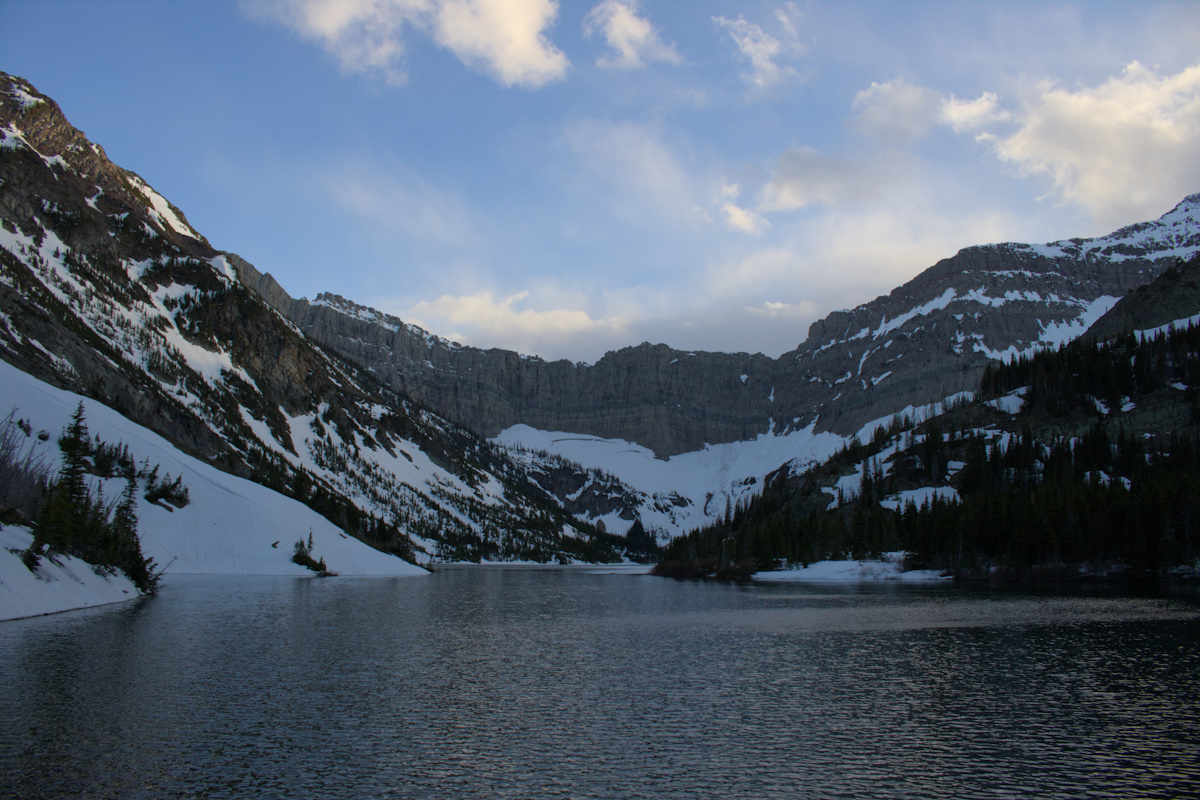
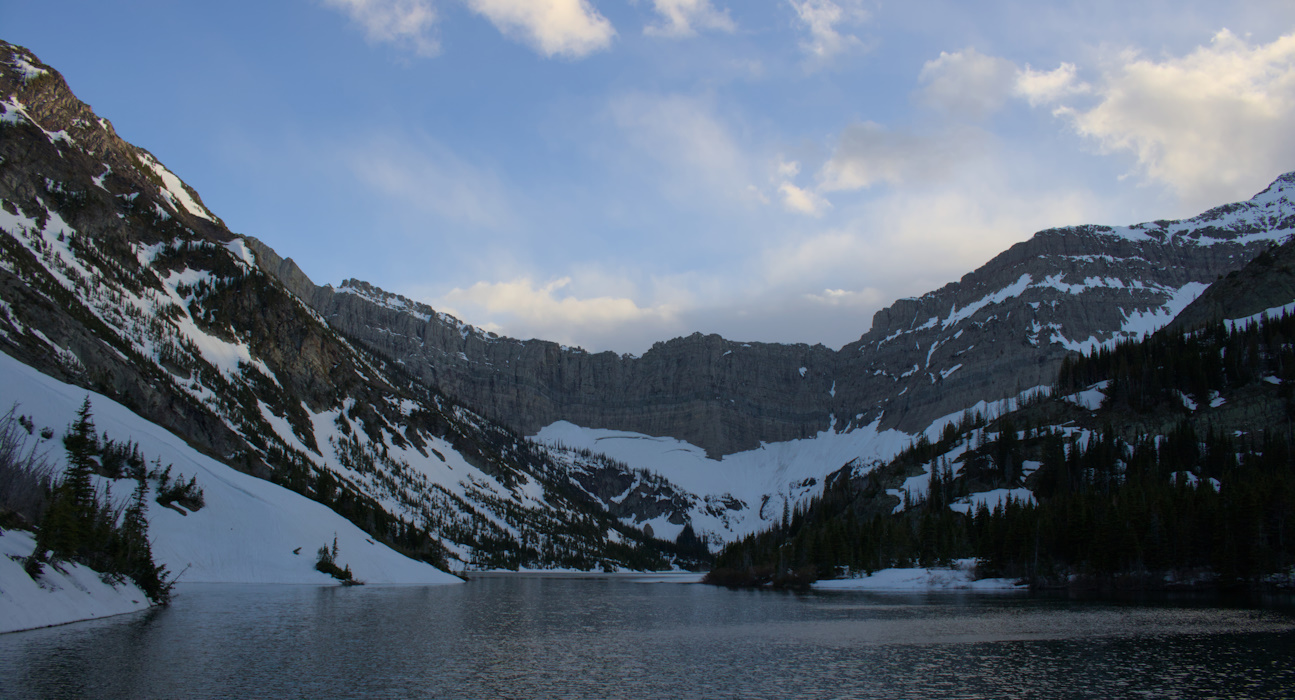
Added aspect ratios and cropped mountains.

diff --git a/gear.html b/gear.html
@@ -32,6 +32,17 @@
 			<p>I've recently started using <a href="https://www.darktable.org/">Darktable</a> for editing RAW files. It is a free program and I highly recommend it. For simple cropping, <a href="https://www.getpaint.net/">Paint.NET</a> or the default Windows Photos program. For other sorts of edits, <a href="https://krita.org/en/">Krita</a>, <a href="https://inkscape.org/">Inkscape</a> and <a href="https://www.gimp.org/">GIMP</a>.
 			
 			<p><a href="https://www.blackmagicdesign.com/products/davinciresolve">DaVinci Resolve</a> for editing videos and also audio.</p>
+			
+			<p>A personal note for resolutions of aspect ratios in galleries.</p>
+			
+			<table>
+				<tr><td>Aspect Ratio</td><td>Resolution</td></tr>
+				<tr><td>3:2</td><td>1200x800</td></tr>
+				<tr><td>4:3</td><td>1200x900</td></tr>
+				<tr><td>16:9</td><td>1280x720</td></tr>
+				<tr><td>Widescreen 1.85</td><td>1295x700</td></tr>
+				<tr><td>Cinemascope 2.35</td><td>1410x600</td></tr>
+			</table>
 		</div>
 	</main>
 	
